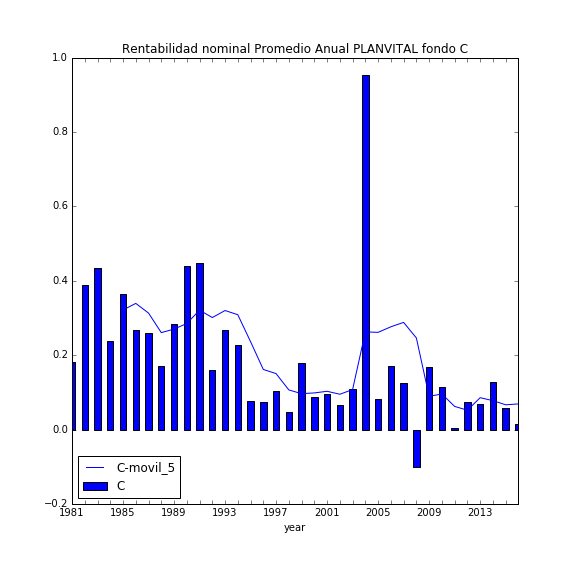
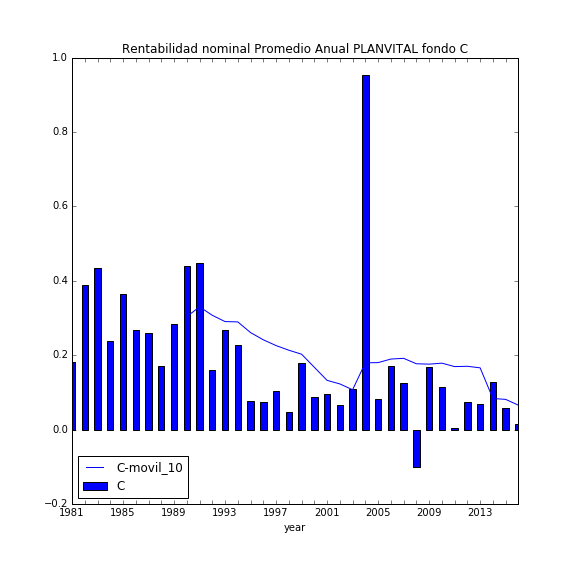
Media movil 10 fondo C

diff --git a/analysis.py b/analysis.py
@@ -1,7 +1,5 @@
 import pandas as pd
 import matplotlib.pyplot as plt
-import matplotlib.ticker as ticker
-import matplotlib.dates as mdates
 from datetime import datetime
 
 karg_csv = dict(delimiter=';', decimal=',', index_col=0, parse_dates=True)
@@ -27,8 +25,13 @@ for afp_name in afps:
             df = vcf.loc['1981':,[fondo]].resample('M').last()
             # Rentabilidad promedio anual = suma rentabilidades mensuales
             aux = df.pct_change(1).resample('A').sum()
-            # Media movil 5 agnos
-            aux['%s-movil_5'%fondo] = aux.rolling(window=5).mean()
+            
+            if fondo == 'C':
+                  # Media movil 10 agnos
+                  aux['%s-movil_10'%(fondo)] = aux[[fondo]].rolling(window=10).mean()
+            else:
+                  # Media movil 5 agnos
+                  aux['%s-movil_5'%(fondo)] = aux[[fondo]].rolling(window=5).mean() 
             # Grafo rentabilidad
             fig, ax = plt.subplots(figsize=(8,8))
             # Rentabilidad anual
